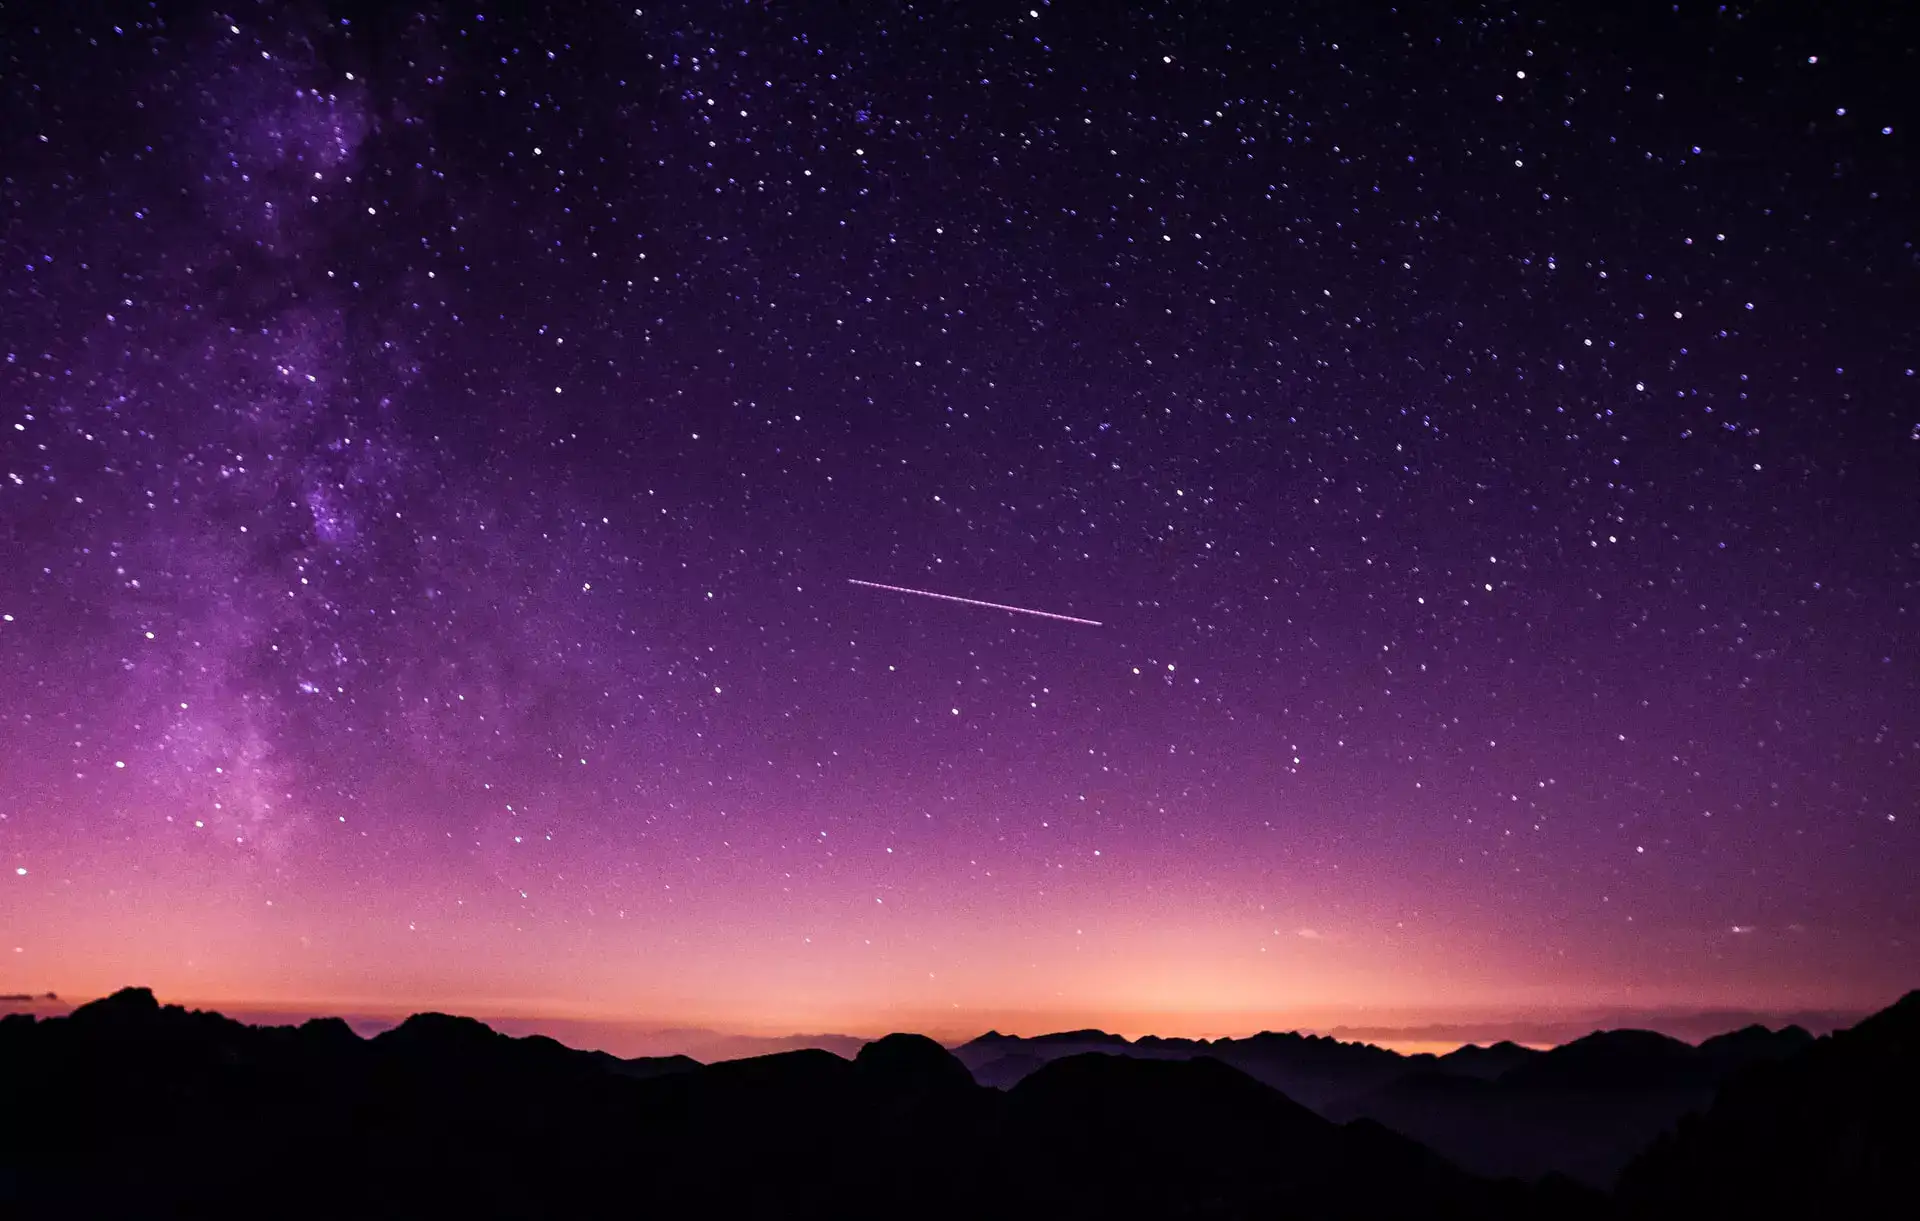
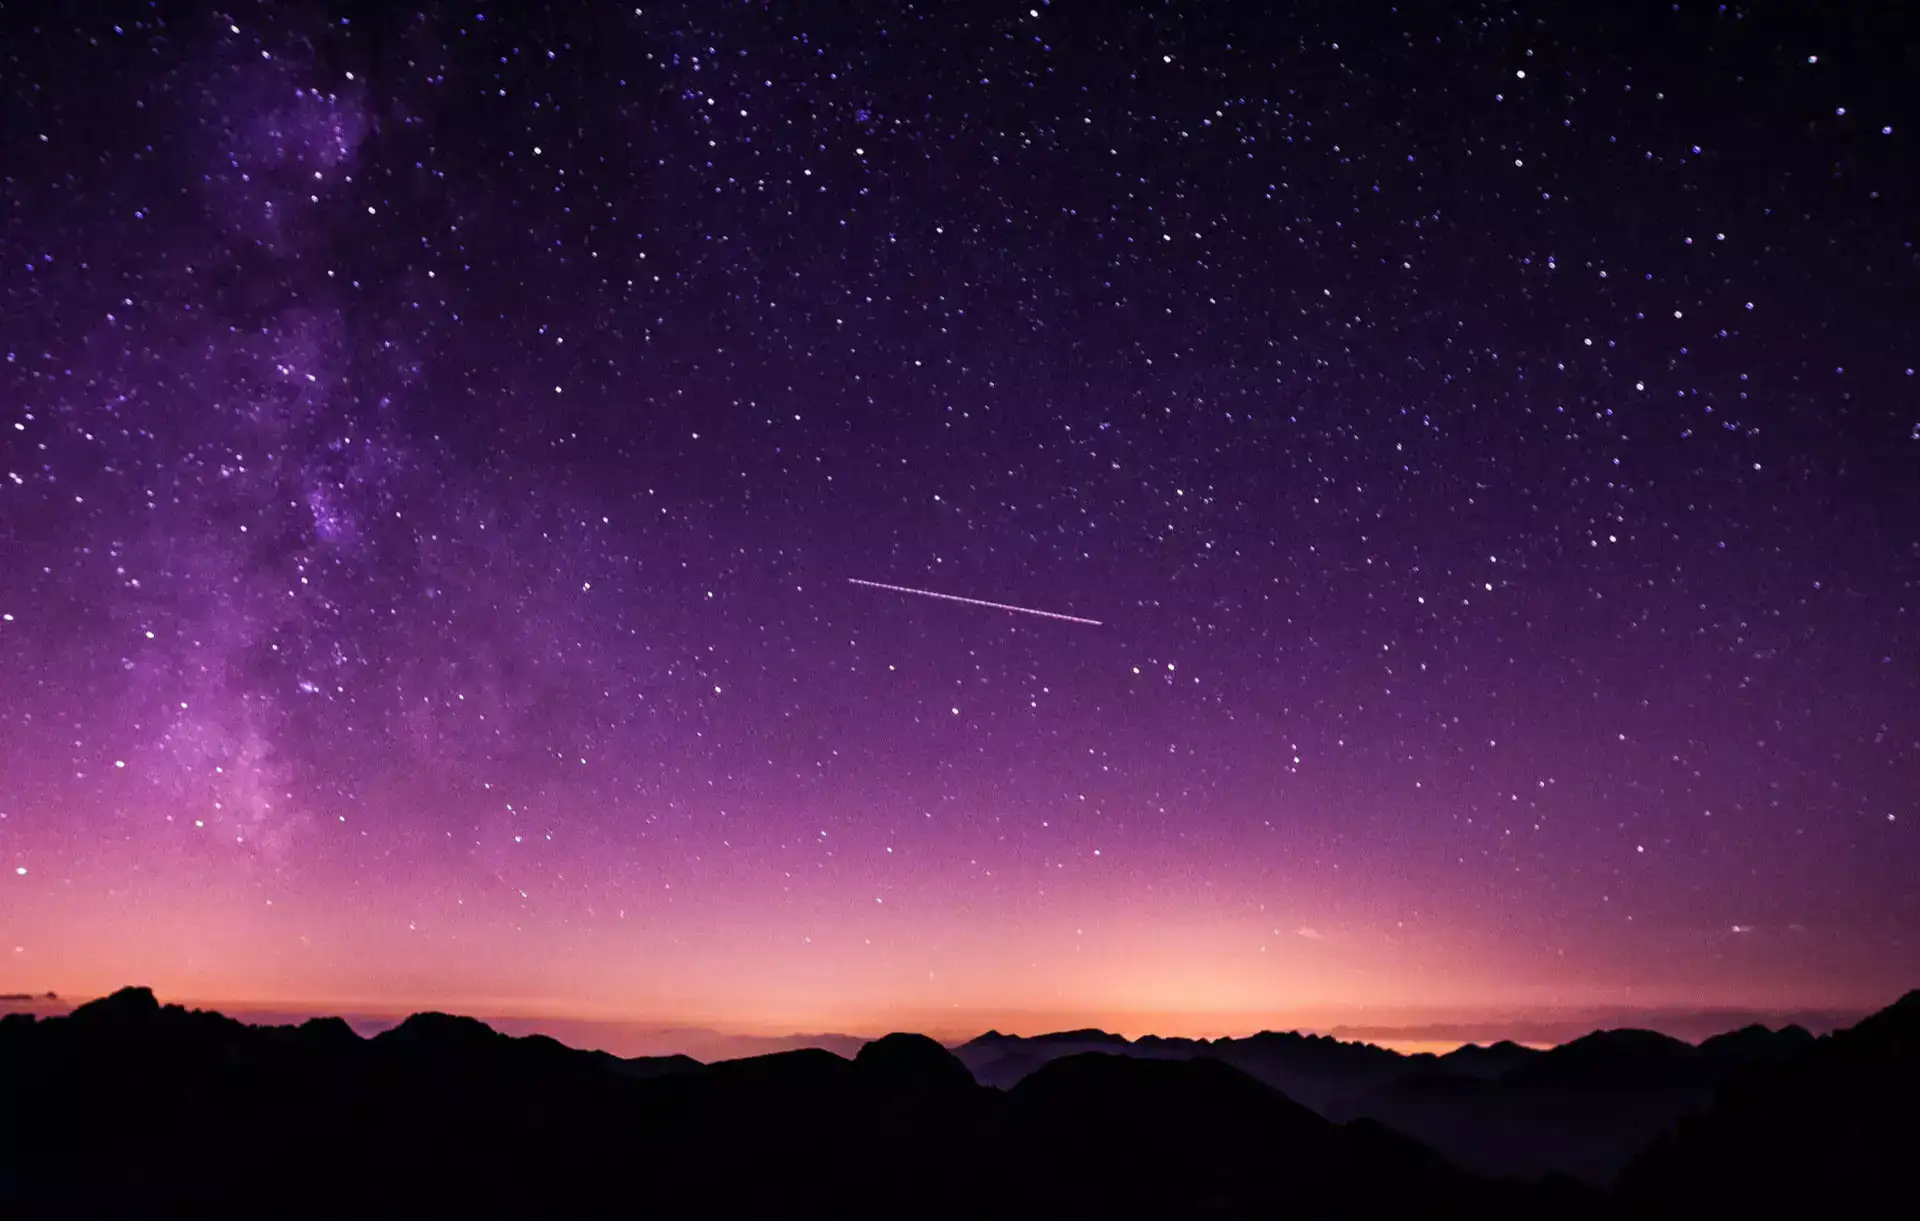
optimize - compressed bg

diff --git a/pages/_document.js b/pages/_document.js
@@ -42,6 +42,10 @@ export default class MyDocument extends NextDocument {
                         rel="preload"
                         href="https://fonts.googleapis.com/css2?family=Open+Sans:wght@800&family=Roboto&display=swap"
                         as="font" />
+                    <link
+                        rel="preload"
+                        href="https://www.stellar-blog.com/stellar-blog-bg1.webp"
+                        as="image" />
                 </Head>
                 <body>
                     <Main />
